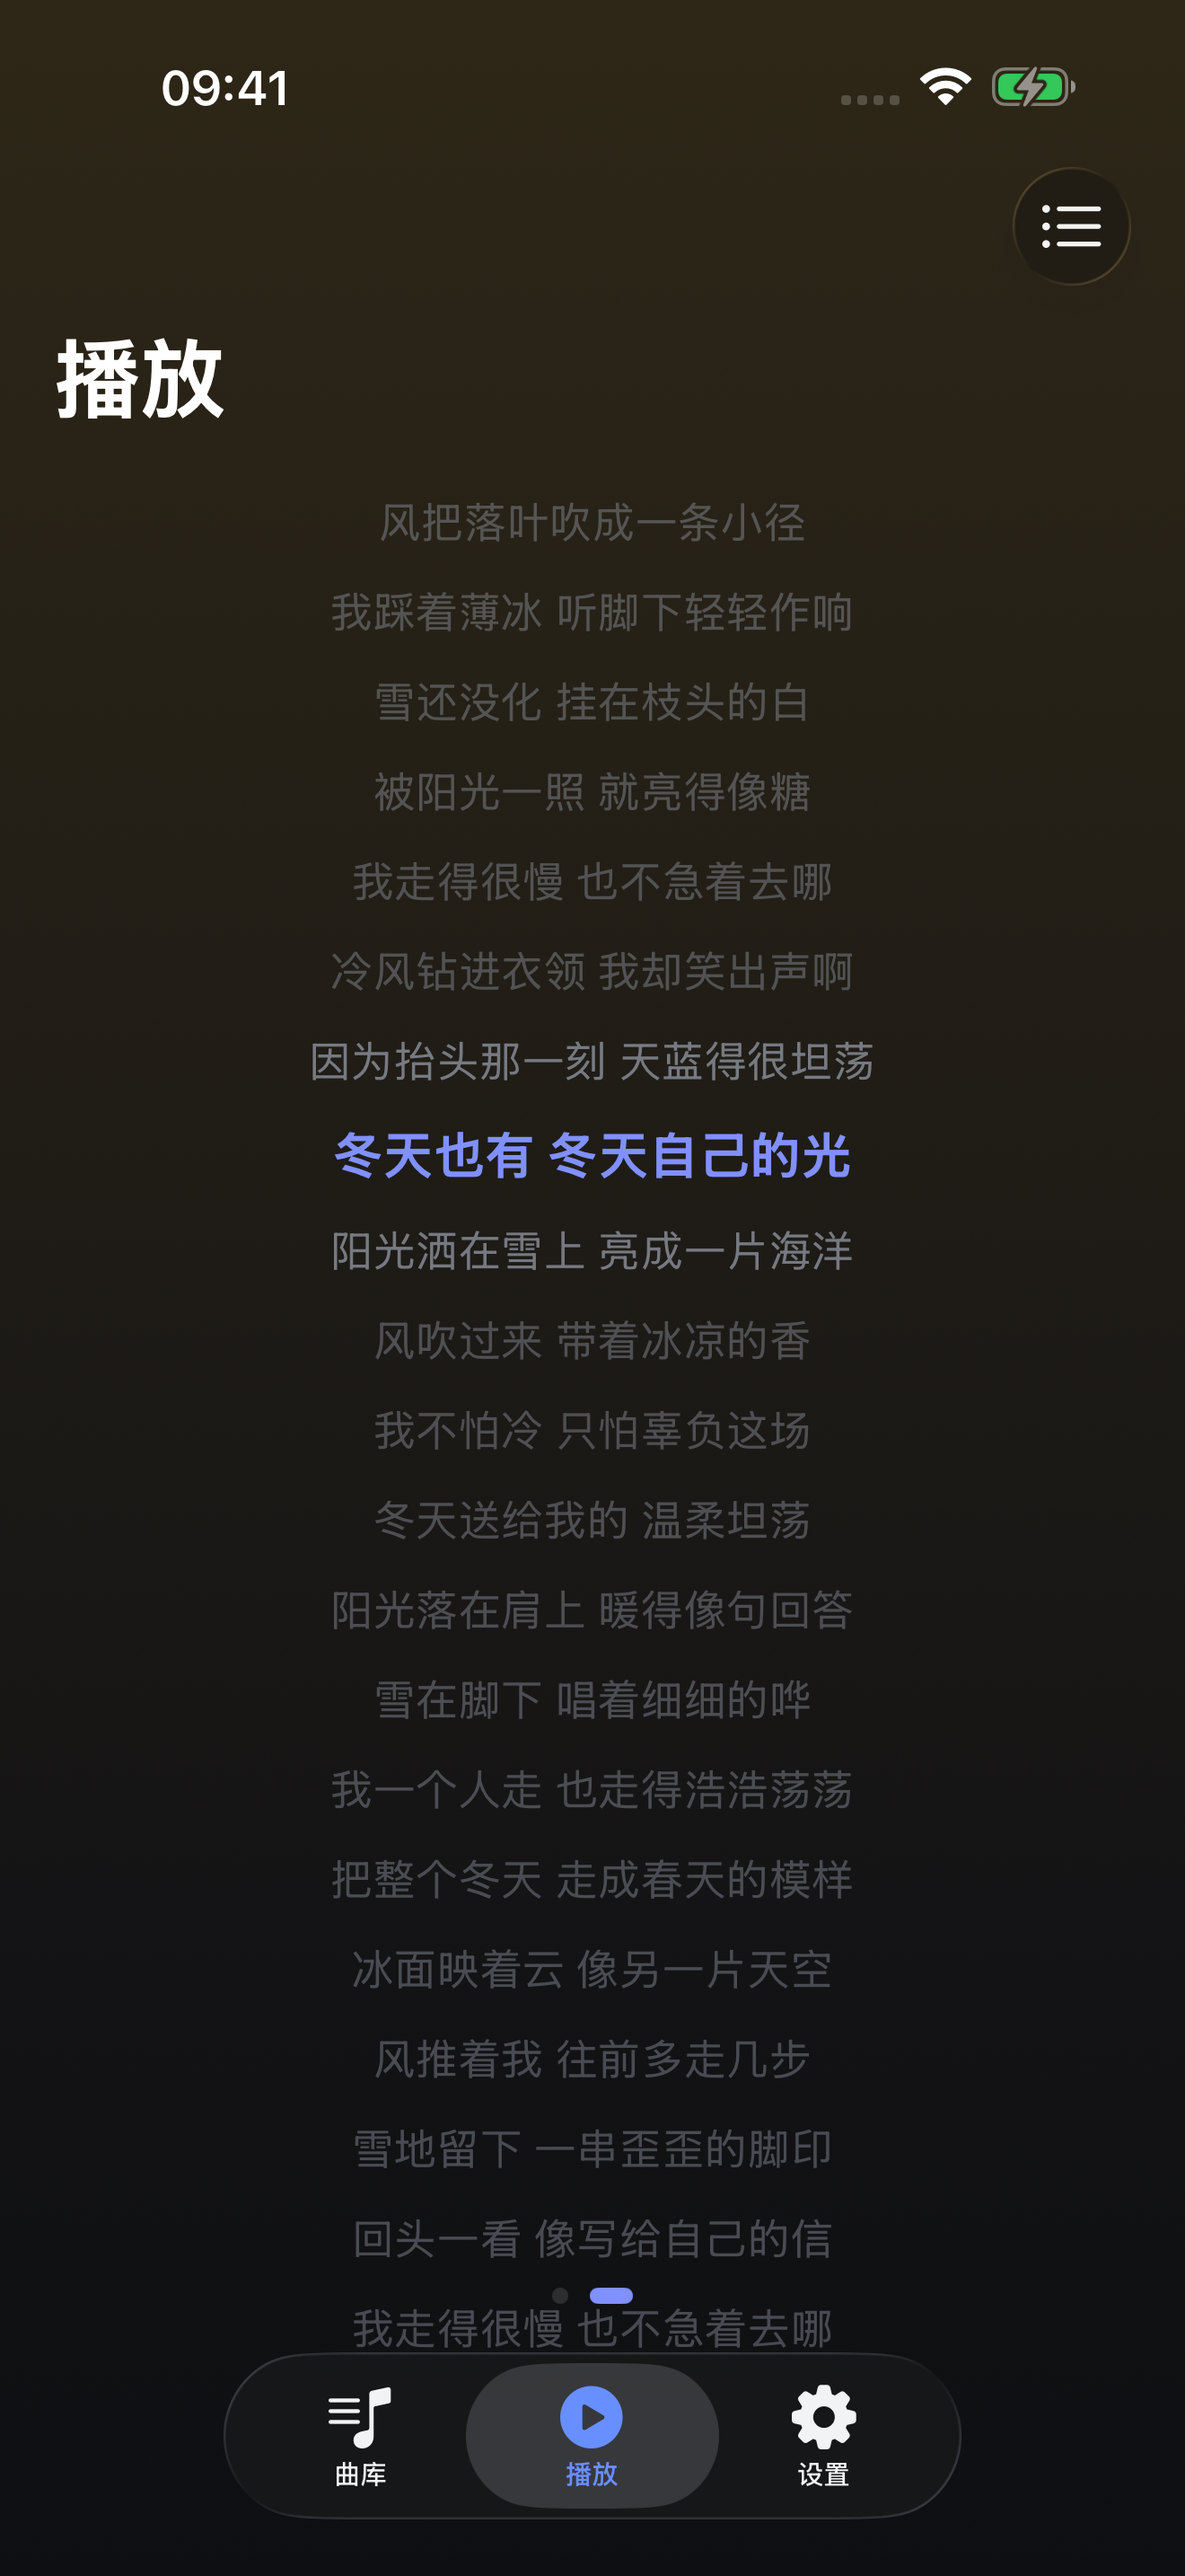
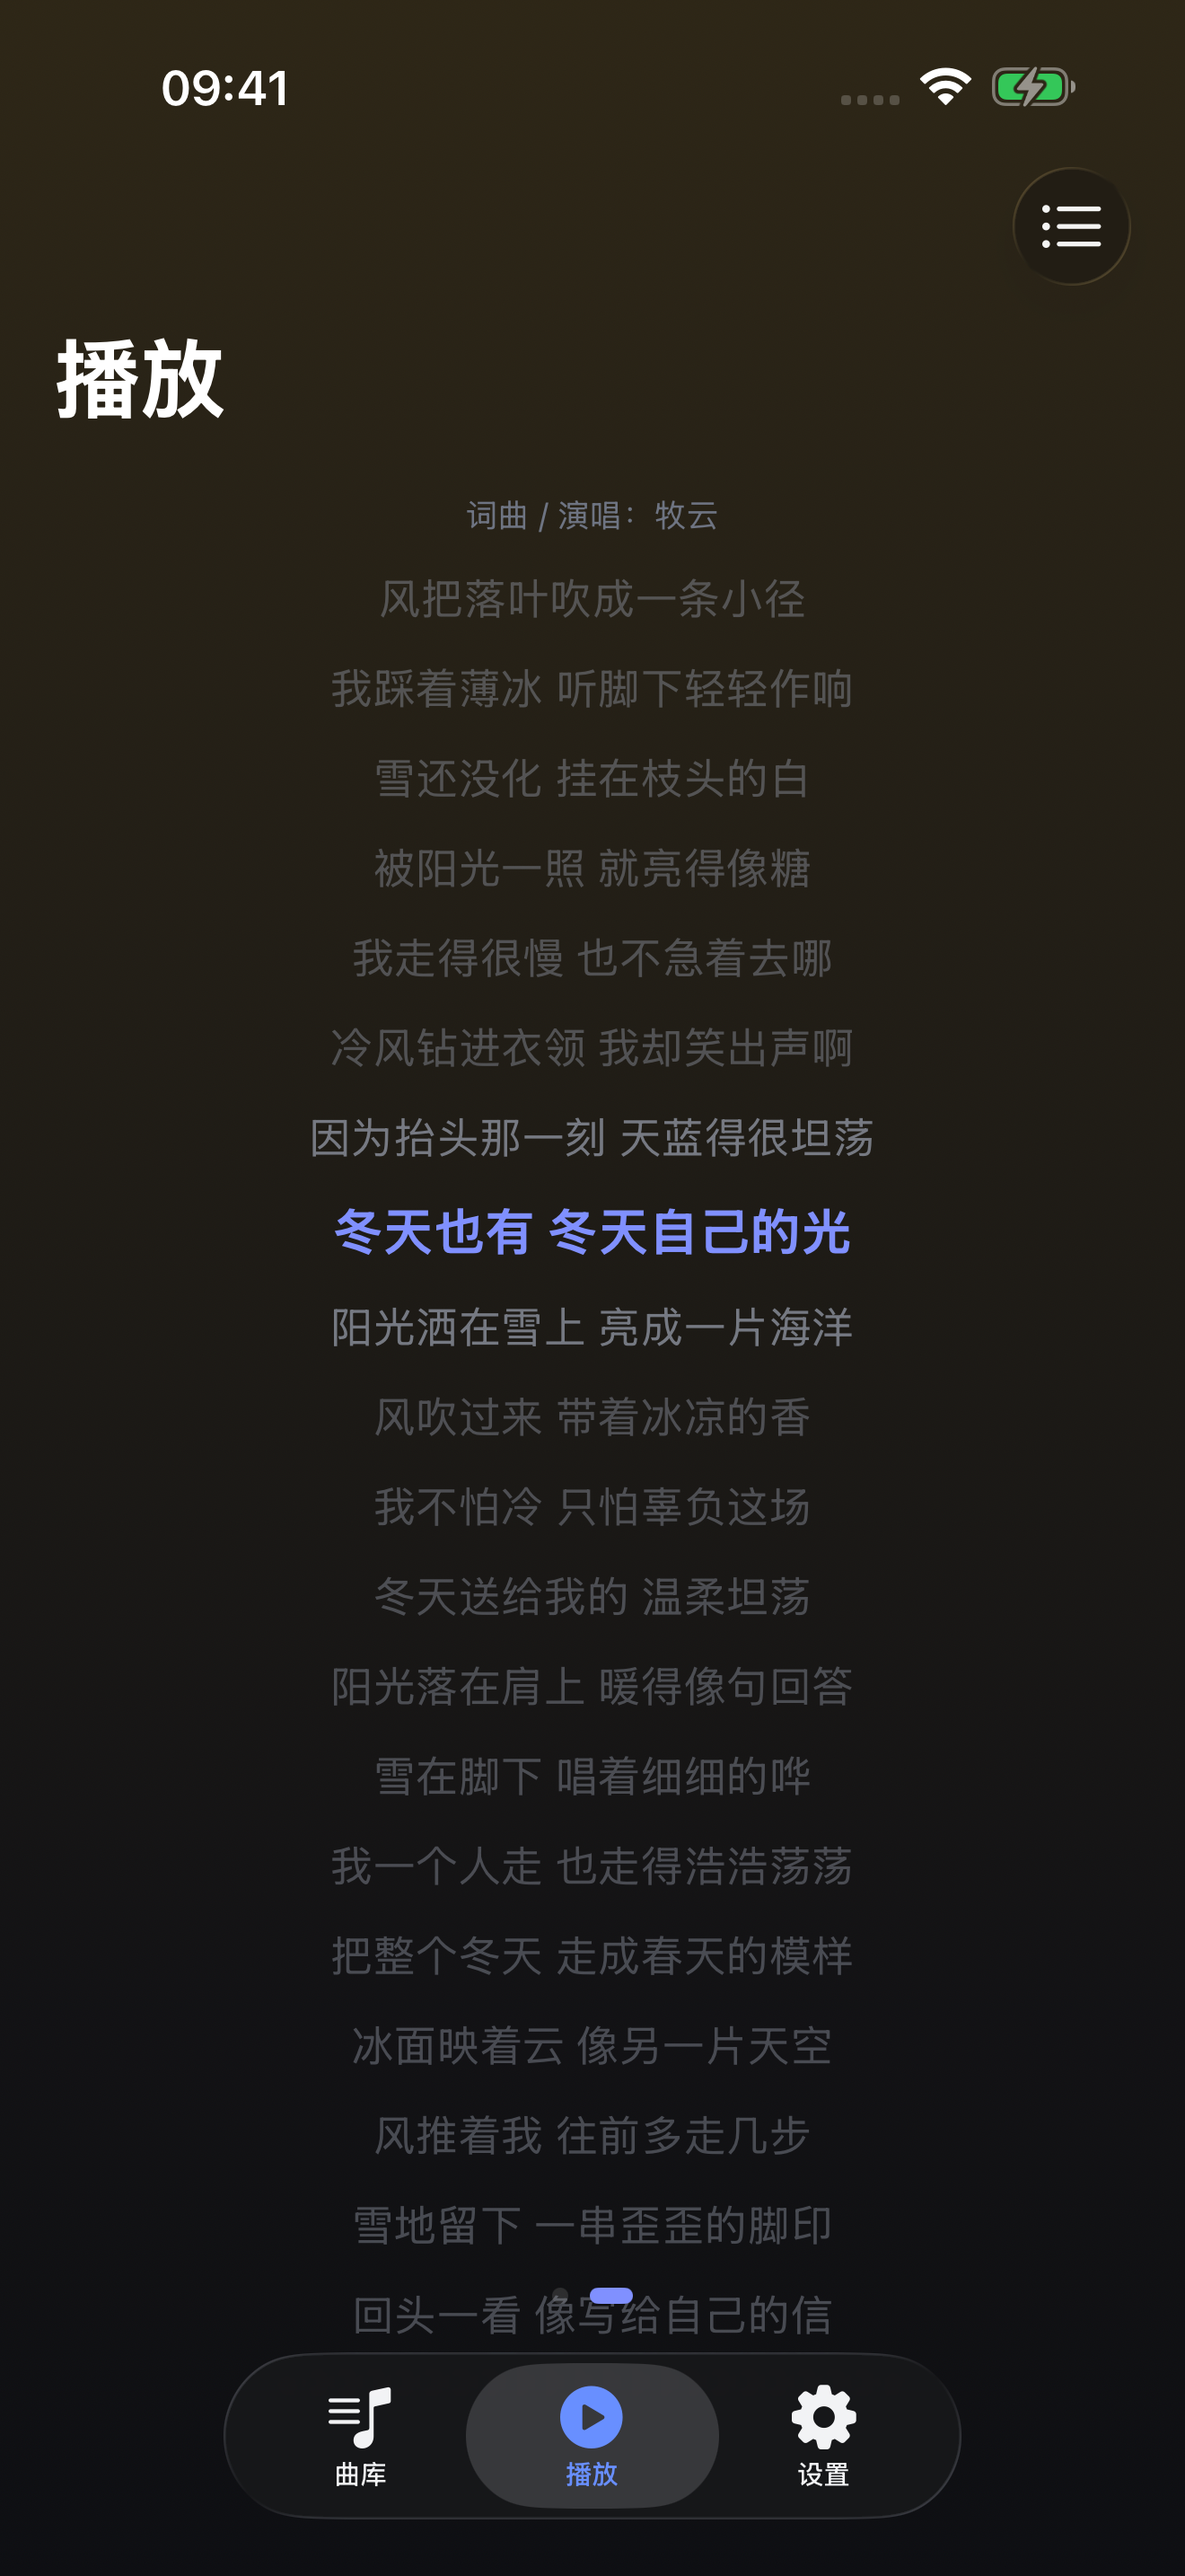
muyunmusic：同步《冬日之光》词曲/演唱署名

Changed region(s): [[0.2485, 0.1862, 0.7455, 0.931]]

diff --git a/muyunmusic/APP_STORE_LISTING.md b/muyunmusic/APP_STORE_LISTING.md
@@ -233,8 +233,8 @@ iPad 四张：
 No demo account is required. To test: open the system Files app, long-press any
 mp3/m4a/flac file, choose "Open with MuYun Music", then play it.
 
-The app ships one owner-supplied track, "Winter Light" (冬日之光), with its
-lyrics and cover, plus no catalog, no recommendations, and no account system.
+The app ships one owner-supplied track, "Winter Light" (冬日之光), written,
+composed and performed by 牧云, with its lyrics and cover, plus no catalog, no recommendations, and no account system.
 Apart from that one track, everything it plays comes from files the user imports
 or addresses the user enters. The bundled track is original/owner-provided; it
 is not third-party catalog content.
@@ -278,7 +278,7 @@ tracking, or third-party SDKs.
 长按选「用此 App 打开」导入，即可完整体验。
 
 除随包一曲《冬日之光》外，App 不内置任何音频、曲库、推荐或账号系统。所有其他内容来自用户导入的文件或
-用户自己填写的地址。随包曲目为所有者提供，歌词带行级时间轴，App 内可逐行同步。
+用户自己填写的地址。随包曲目词/曲/演唱均为牧云，歌词带行级时间轴，App 内可逐行同步。
 
 网络只在用户明确操作时发生：
 1) 可选的家庭影音服务器：用户在设置里填自己的服务器地址（或扫服务器首页
@@ -315,7 +315,7 @@ IPTV / 牧云音乐 · 本地曲库）。「账号 + 概念相似度」这条 4.
 
 1. **内置内容可静态核验**：`Shared/AppIdentifiers.builtinSourceURLs = []`、
    `hasBundledSampleSongs = false` 都有 LogicTests 断言守着；bundle 内只有
-   所有者提供的 1 首《冬日之光》（WAV + 带时间轴 LRC + 封面），清空曲库后
+   词/曲/演唱均为牧云的 1 首《冬日之光》（WAV + 带时间轴 LRC + 封面），清空曲库后
    不回填示例。
 2. **队列引擎是纯函数**：`Shared/QueueEngine.swift` 把 随机×循环(off/all/one)
    全部组合的下一首语义写成真值表，LogicTests 逐项覆盖；
@@ -391,7 +391,7 @@ IPTV / 牧云音乐 · 本地曲库）。「账号 + 概念相似度」这条 4.
 | 审核信息 → 演示账号 | **不需要**，备注里写明导入方法（§9） |
 | 审核信息 → 备注 | 粘贴 §9 英文版 |
 | 版本信息 → 版权 | `2026 Zhipeng Ge` |
-| 内容版权 (Content Rights) | **DOES_NOT_USE_THIRD_PARTY_CONTENT**——除随包一首所有者提供的《冬日之光》外，App 自身不含、不展示、不访问第三方内容；其余内容均来自用户导入/用户粘贴（与 MuyunTV 答卷同理，若审核对自填地址有异议按 §9 口径答） |
+| 内容版权 (Content Rights) | **DOES_NOT_USE_THIRD_PARTY_CONTENT**——除随包一首词/曲/演唱均为牧云的《冬日之光》外，App 自身不含、不展示、不访问第三方内容；其余内容均来自用户导入/用户粘贴（与 MuyunTV 答卷同理，若审核对自填地址有异议按 §9 口径答） |
 | 出口合规 | 上传自动跳过（build setting 已 NO；产物已验） |
 | 价格 | §0，建 Record 当天定 |
 | 销售范围 | 所有国家/地区（若 EU 需要 DSA 交易者状态，按账号实际情况填） |

diff --git a/muyunmusic/screenshots/builtin/README.md b/muyunmusic/screenshots/builtin/README.md
@@ -7,4 +7,4 @@
 - `player.png`：唱片面，封面/标题/时长/播放进度
 - `lyrics.png`：歌词面，点「冬天也有 冬天自己的光」跳转到对应时间轴，当前行高亮
 
-曲目为所有者提供（WAV + LRC + 原创封面），不是第三方曲库；上架前确认发行权。
+曲目词/曲/演唱均为牧云（WAV + LRC + 原创封面），不是第三方曲库；上架前确认发行权。
